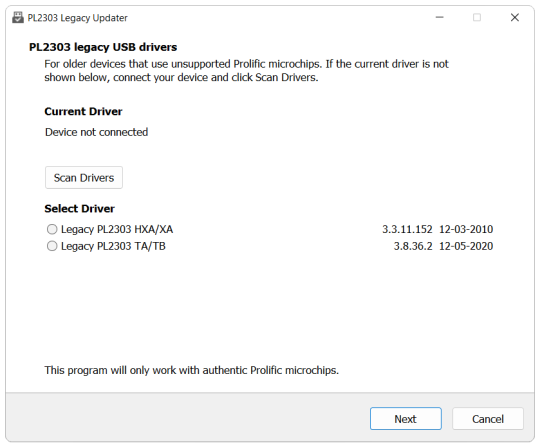
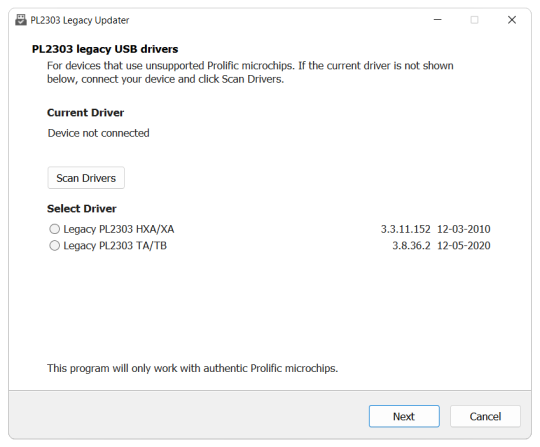
Improve documentation and program wording

diff --git a/README.md b/README.md
@@ -1,8 +1,9 @@
 # PL2303 Legacy Driver Updater
 
-[![GitHub release](https://img.shields.io/github/release/johnstevenson/pl2303-legacy.svg?color=blue)](https://github.com/johnstevenson/pl2303-legacy/releases)
+[![GitHub release](https://img.shields.io/github/release/johnstevenson/pl2303-legacy?color=blue)](https://github.com/johnstevenson/pl2303-legacy/releases)
 [![Continuous Integration](https://github.com/johnstevenson/pl2303-legacy/actions/workflows/build.yml/badge.svg?branch=main)](https://github.com/johnstevenson/pl2303-legacy/actions?query=branch:main)
-[![License: MIT](https://img.shields.io/badge/License-MIT-yellow.svg)](https://opensource.org/licenses/MIT)
+[![License: MIT](https://img.shields.io/badge/License-MIT-yellow)](https://opensource.org/licenses/MIT)
+[![GitHub releases](https://img.shields.io/github/downloads/johnstevenson/pl2303-legacy/total?color=coral)](https://github.com/johnstevenson/pl2303-legacy/releases/)
 
 - For authentic Prolific PL2303 HXA/XA and TA/TB microchips
 - Supports Windows 10 (x86, x64) and Windows 11 (x64)
@@ -10,18 +11,17 @@
 ![Screenshot](screenshot.png)
 
 Download [PL2303 Legacy Updater Setup][release]. This allows you to run the updater program (shown
-above) and check that the driver works for your device. You are recommended to install this program
-on your computer in case Windows Update changes your driver, or if you use multiple devices with
-different driver requirements.
+above) and check that a legacy driver works for your device.
 
+If everything is okay, you are recommended to continue with the installation because you will need
+this program again if Windows Update changes your driver, or if you use other devices that require a
+different PL2303 driver. See [Program details](#program-details) for more information.
 
-[codefix]:  https://www.ifamilysoftware.com/Prolific_PL-2303_Code_10_Fix.html
-[family]:   https://www.ifamilysoftware.com/
-[release]:  https://github.com/johnstevenson/pl2303-legacy/releases/latest
+Once it has been installed, just type "PL2303" into the Taskbar search control to run it.
 
 ## Supplied drivers
 
-The following legacy drivers are provided:
+Legacy drivers are provided for the following microchips:
 
 ### PL2303 HXA/XA
 
@@ -32,17 +32,38 @@ The following legacy drivers are provided:
 PL2303HXA and PL2303XA were phased out in 2012 due to counterfeit Chinese copies. Note that this
 driver will only be installed if Prolific recognizes the microchip.
 
-This driver supports older microchips (PL2303H, PL2303HX and PL2030X) but if it is not suitable
+This driver also supports older microchips (PL2303H, PL2303HX and PL2303X). If it is not suitable *
 you can try the excellent [Prolific PL-2303 Code 10 Fix][codefix] program from
-[Family Software][family], which uses an earlier driver version (3.3.2.102).
+[Family Software][family], which uses an earlier driver version (3.3.2.102) from 2008.
+
+_* Earlier PL2303 drivers sometimes fail on later Windows versions (where data can be read from but
+not written to the device), depending on the methods used by the calling program._
 
 ### PL2303 TA/TB
 
-| Version   | Date       | Support ended |
-|-----------|------------|---------------|
-| 3.8.36.2  | 12-05-2020 | Windows 11    |
+| Version  | Date       | Support ended |
+|----------|------------|---------------|
+| 3.8.36.2 | 12-05-2020 | Windows 11    |
 
 PL2303TA and PL2303TB were both recommended by Prolific as replacements for the above end-of-life
-microchips. Unfortunately support for these ended with the release of Windows 11, presumably for the
-same reasons. This driver can recognize non-Prolific microchips and will display a readable message
-in Windows Device Manager.
+microchips. Unfortunately support for these ended with the release of Windows 11, presumably for a
+similar reason.
+
+This driver can identify non-Prolific microchips and unsupported versions and will display a
+readable message in Windows Device Manager.
+
+## Program details
+
+The program does not uninstall any existing PL2303 drivers. Instead it requires that your device is
+connected so it can instruct Windows to use the selected driver for this specific device.
+
+Windows stores these device/driver/COM port configurations for the next time you connect, so it is
+possible to have a different device on another COM port using a different PL2303 driver.
+
+But preserving this configuration cannot be guaranteed, so rather than fight against Windows
+Update (or the internal ranking of which driver to use), it is recommended to install this
+program so that you can run it again when you need to.
+
+[codefix]:  https://www.ifamilysoftware.com/Prolific_PL-2303_Code_10_Fix.html
+[family]:   https://www.ifamilysoftware.com/
+[release]:  https://github.com/johnstevenson/pl2303-legacy/releases/latest
